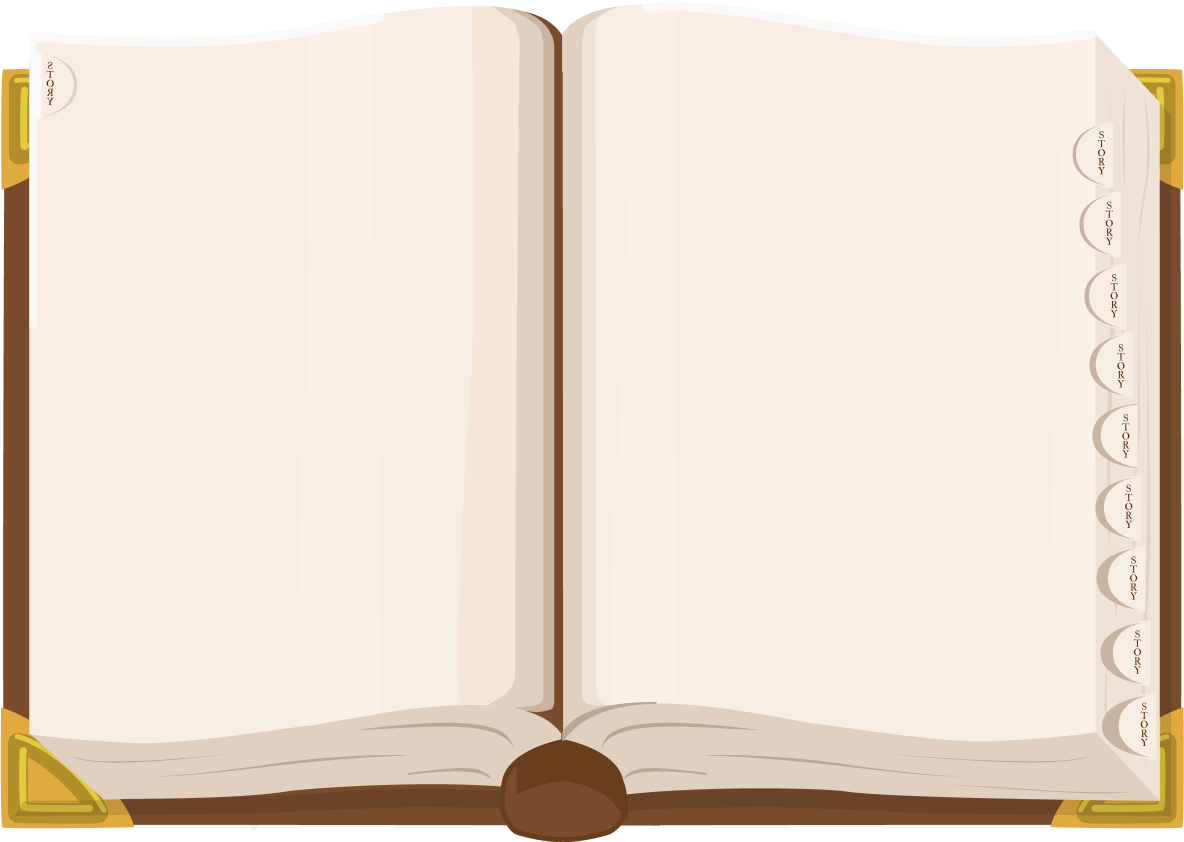
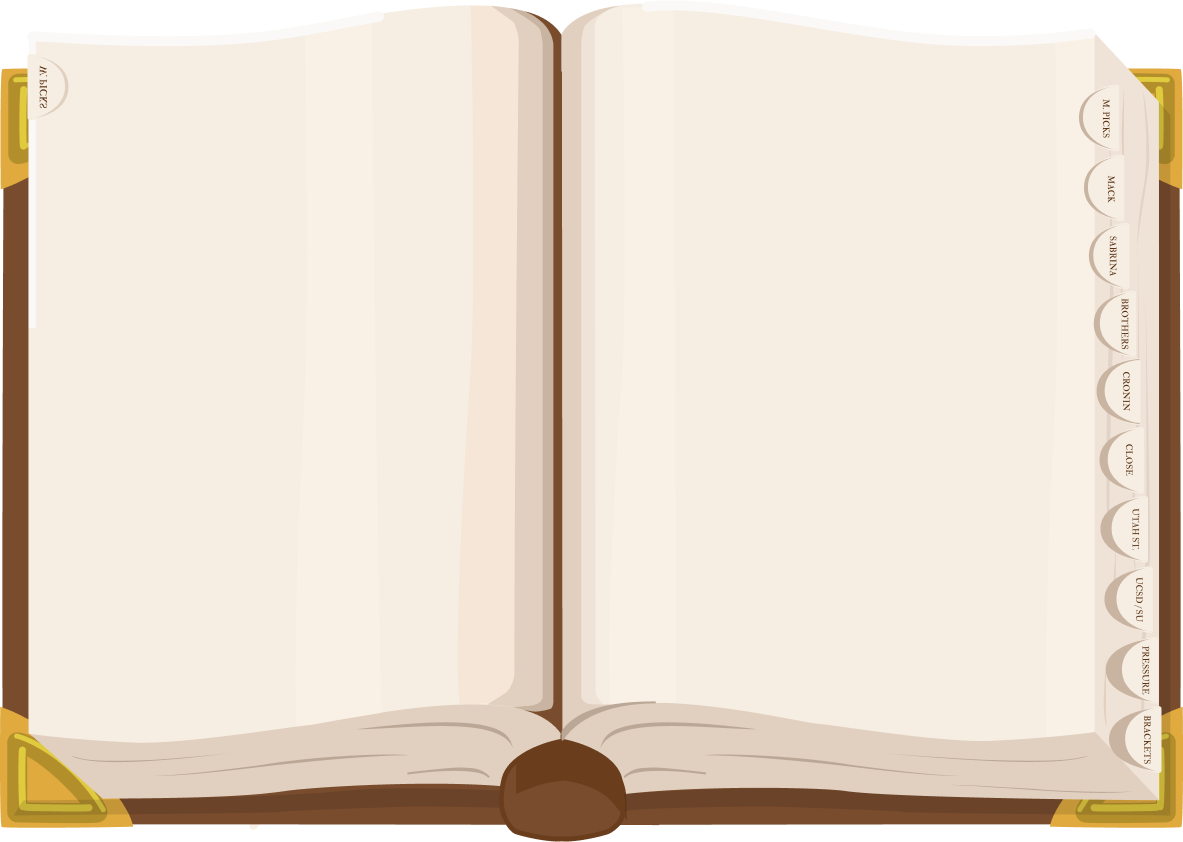
Added tab names

diff --git a/src/components/ArticlePage.js b/src/components/ArticlePage.js
@@ -13,16 +13,16 @@ import Page9 from "../images/page9.png";
 import Page10 from "../images/page10.png";
 import Page11 from "../images/page10.png";
 import Page12 from "../images/page10.png";
-import MobilePage1 from "../images/mobilePage1.png";
-import MobilePage2 from "../images/mobilePage2.png";
-import MobilePage3 from "../images/mobilePage3.png";
-import MobilePage4 from "../images/mobilePage4.png";
-import MobilePage5 from "../images/mobilePage5.png";
-import MobilePage6 from "../images/mobilePage6.png";
-import MobilePage7 from "../images/mobilePage7.png";
-import MobilePage8 from "../images/mobilePage8.png";
-import MobilePage9 from "../images/mobilePage9.png";
-import MobilePage10 from "../images/mobilePage10.png";
+import MobilePage1 from "../images/mobilePage.png";
+import MobilePage2 from "../images/mobilePage.png";
+import MobilePage3 from "../images/mobilePage.png";
+import MobilePage4 from "../images/mobilePage.png";
+import MobilePage5 from "../images/mobilePage.png";
+import MobilePage6 from "../images/mobilePage.png";
+import MobilePage7 from "../images/mobilePage.png";
+import MobilePage8 from "../images/mobilePage.png";
+import MobilePage9 from "../images/mobilePage.png";
+import MobilePage10 from "../images/mobilePage.png";
 import MobilePage11 from "../images/mobilePage11.png";
 import Article from "../components/Article.js";
 import MobileArticle from "../components/MobileArticle.js";

diff --git a/src/components/TitlePage.js b/src/components/TitlePage.js
@@ -5,7 +5,7 @@ import Tabs from "../images/tabs.png";
 
 // Content inside the book
 const BookContent = styled.div`
-  width: 90%; 
+  width: 93%; 
   display: flex;
   flex-direction: column;
   align-items: center;
@@ -16,7 +16,7 @@ const BookContent = styled.div`
 const ArticlesContainer = styled.div`
   display: grid;
   grid-template-columns: repeat(2, 1fr); 
-  gap: -2em;
+  gap: -1.5em;
   width: 100%; 
 `;
 
@@ -49,8 +49,8 @@ const ArticleItem = styled.div`
 const BlueColumn = styled.div`
   width: 15em;
   height: 100em;
-  margin-right: -80em;
-  margin-top: -90em;
+  margin-right: -78em;
+  margin-top: -88em;
   background-image: url(${Tabs}); 
   background-repeat: no-repeat;
   padding: 20px;
